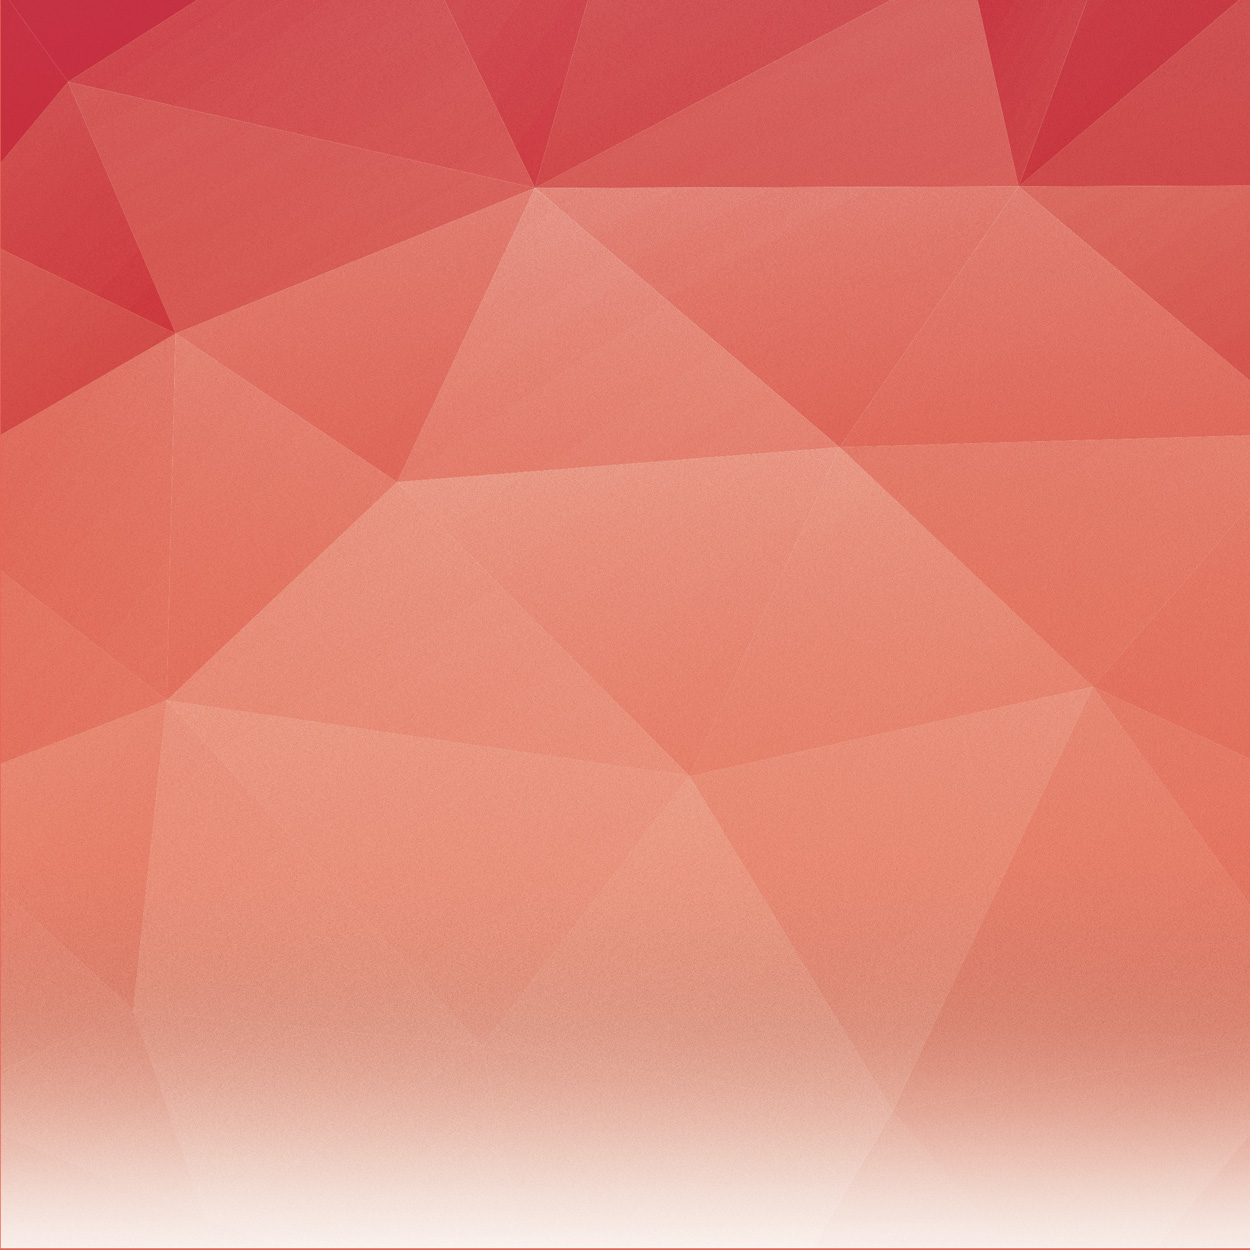
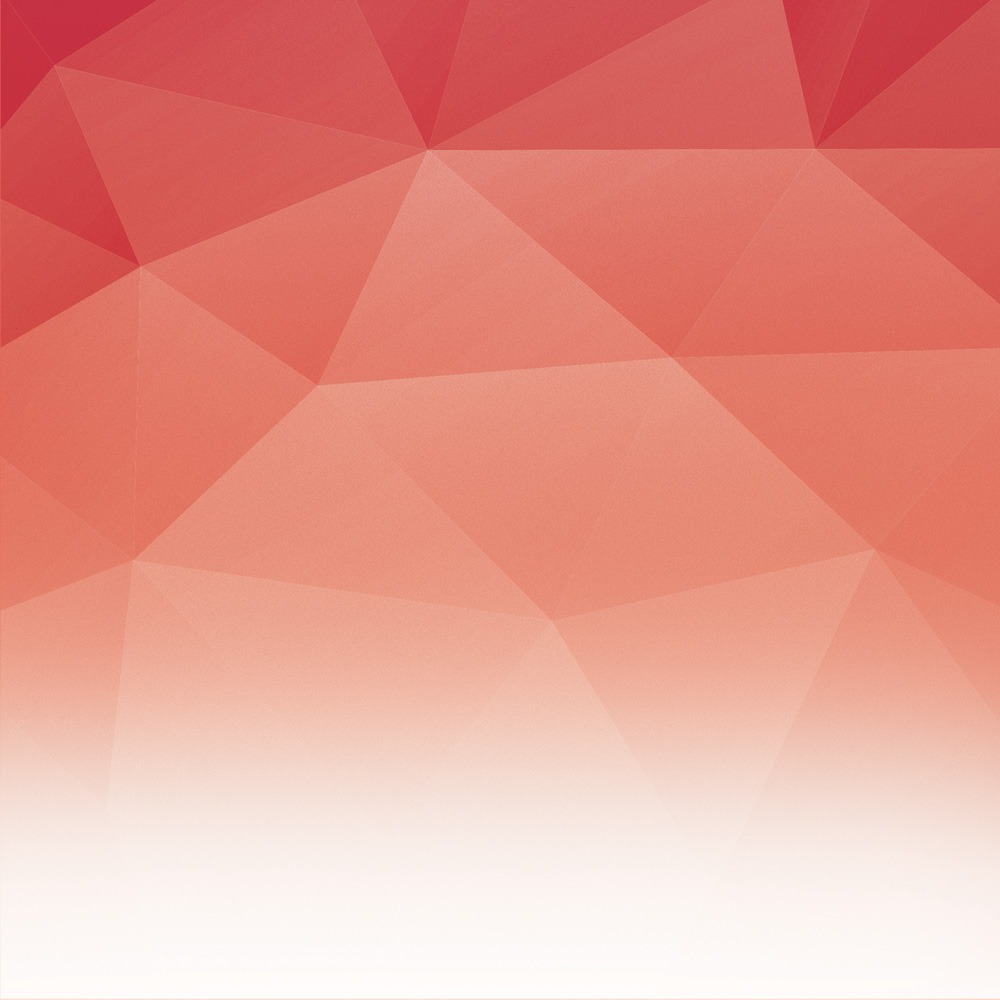
Modified BG

diff --git a/app/assets/stylesheets/application.scss b/app/assets/stylesheets/application.scss
@@ -12,5 +12,5 @@ html body {
       box-shadow: inset 0 -16px 29px #BABABA;
       background: url(https://raw.githubusercontent.com/dannysun725/portfolio2/master/app/assets/images/background.jpg)  no-repeat center center fixed;;
       background-size: cover;
-      height: 1500px;
+      height: 500px;
 }
